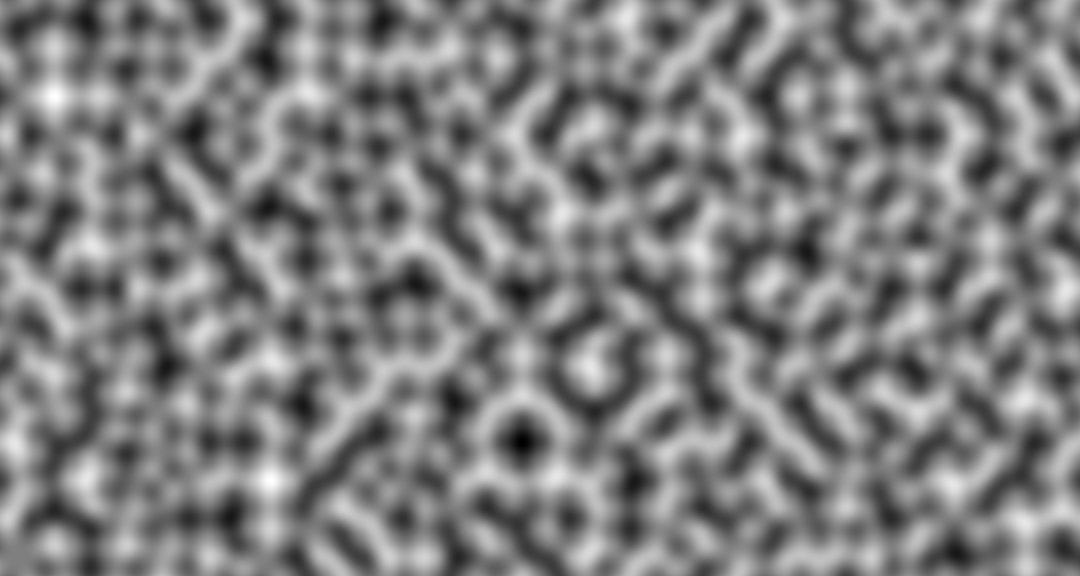
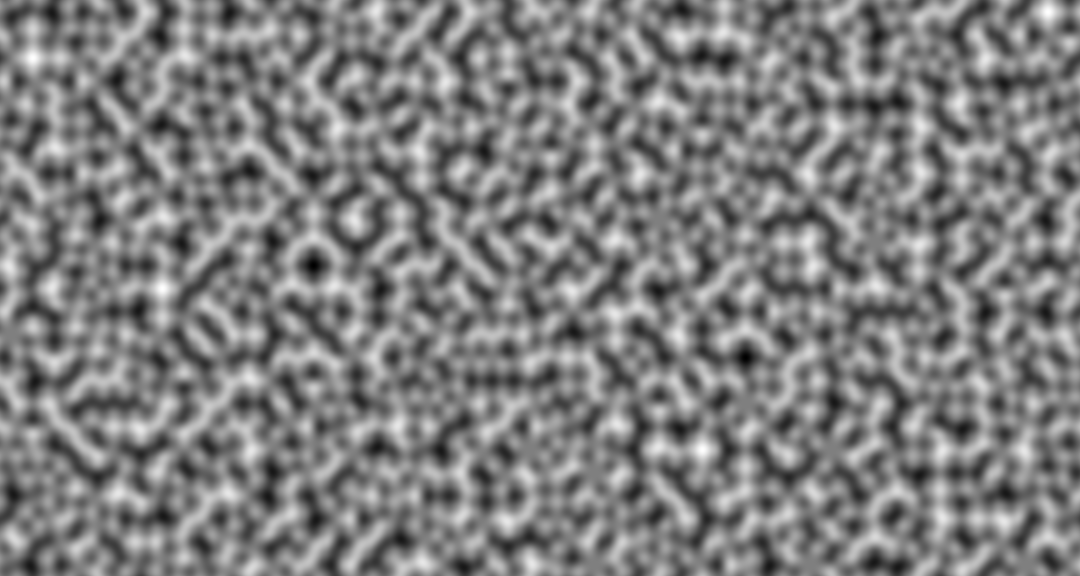
work in progress

diff --git a/core/src/edu/cornell/gdiac/mistic/FogController.java b/core/src/edu/cornell/gdiac/mistic/FogController.java
@@ -177,6 +177,10 @@ public class FogController {
 		shader.end();
 	}
 
+	public ShaderProgram getShader() {
+		return shader;
+	}
+
 	public void draw(GameCanvas canvas, int numFireflies) {
 		System.out.println(canvas.getHeight());
 		batch = canvas.getSpriteBatch();
@@ -461,7 +465,7 @@ public class FogController {
 		Perlin perlin = new Perlin();
 		for (int y = 0; y < HEIGHT; y++) {
 			for (int x = 0; x < WIDTH; x++) {
-				data[count++] = perlin.noise(30.0 * (double)x / WIDTH, 15.0 * (double)y / HEIGHT);
+				data[count++] = perlin.noise(50.0 * (double)x / WIDTH, 25.0 * (double)y / HEIGHT);
 			}
 		}
 
